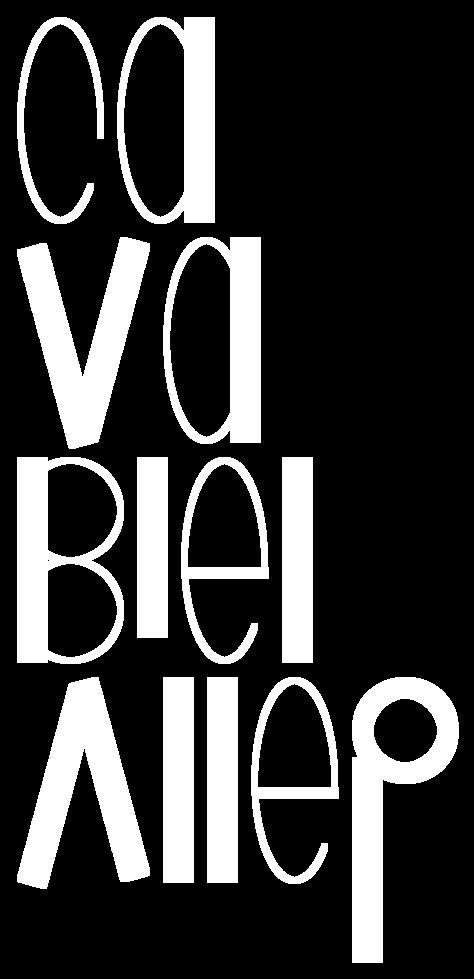
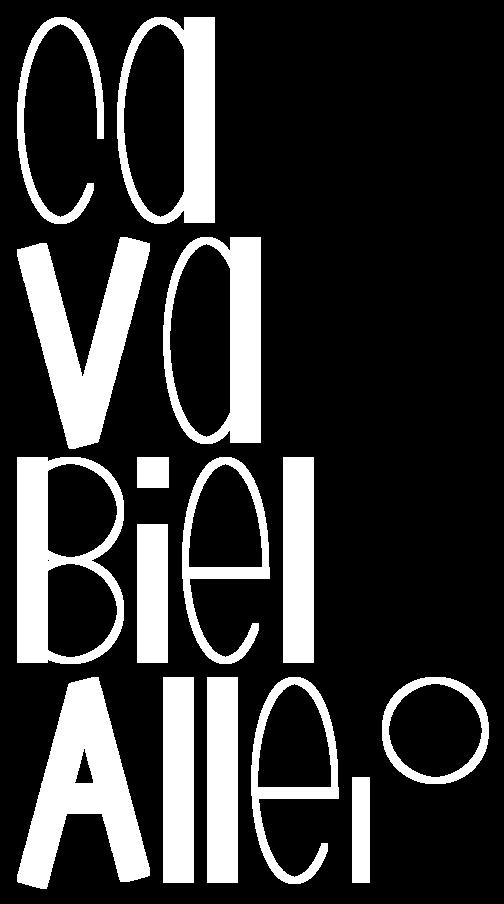
we only have 1 test to do left

Changed region(s): [[0.0295, 0.0, 0.9747, 0.9912], [0.0591, 0.031, 0.0886, 0.0619]]

diff --git a/labo1/src/tp1/LetterFactory.java b/labo1/src/tp1/LetterFactory.java
@@ -15,7 +15,6 @@ public final class LetterFactory {
         BaseShape Ellipse = new Ellipse(maxWidth, maxHeight);
         for (int i = 0; i < halfMaxWidth / 2 + 10; i++) {
             BaseShape littleCircle = new Rectangle(halfMaxWidth - i, maxHeight / 3 - i);
-
             Ellipse.remove(littleCircle);
 
         }
@@ -37,8 +36,8 @@ public final class LetterFactory {
 
     public static BaseShape create_C() {
         BaseShape Ellipse = new Ellipse(maxWidth, maxHeight);
-        for (int i = 0; i < halfMaxWidth / 2 + 10; i++) {
-            BaseShape littleCircle = new Rectangle(halfMaxWidth - i, maxHeight / 3 - i);
+        for (int i = 0; i < halfMaxWidth / 2 ; i++) {
+            BaseShape littleCircle = new Rectangle(halfMaxWidth - i, maxWidth  - i*2);
             Ellipse.remove(littleCircle);
 
         }
@@ -82,17 +81,35 @@ rect.add(rect3);
 
     // TODO
     public static BaseShape create_n() {
-        Rectangle Rect1 = new Rectangle(stripeThickness, maxHeight);
+        Rectangle Rect1 = new Rectangle(stripeThickness, maxHeight).translate( new Point2d(-maxWidth,-halfMaxHeight));
+        Ellipse ellipse = new Ellipse(maxWidth, maxHeight);
+        for (int i = 0; i < maxWidth/2 ; i++) {
+            BaseShape littleCircle = new Rectangle( maxWidth -i ,halfMaxWidth-i*2);
+            ellipse.remove(littleCircle);
+
+        }
+
+        Rect1.add(ellipse);
         return Rect1;
     }
 
     // TODO
     public static BaseShape create_r() {
 
-        Rectangle Rect1 = new Rectangle(halfStripeThickness, maxHeight/2).translate( new Point2d(-maxWidth, maxHeight/4));
-        BaseShape littleCircle = new Circle(halfMaxHeight);
-        littleCircle.remove( new Point2d(-halfMaxWidth*2, -halfMaxWidth/2));
-       Rect1.add(littleCircle);
+        Rectangle Rect1 = new Rectangle(halfStripeThickness, maxHeight/2).translate( new Point2d(-maxWidth/2, maxHeight/4));
+        BaseShape Circle = new Ellipse(halfMaxWidth, halfMaxHeight);
+        for (int i = 0; i < maxWidth ; i++) {
+            BaseShape littleCircle = new Rectangle(maxWidth - i, maxHeight  - i);
+            Circle.remove(littleCircle);
+
+        }
+        for (int i = 0; i < maxWidth ; i++) {
+            BaseShape littleCircle = new Rectangle(maxWidth + i, maxHeight  + i);
+            Circle.remove(littleCircle);
+
+        }
+        Circle.translate( new Point2d(-maxWidth/4, halfMaxHeight/4));
+       Rect1.add(Circle);
         return Rect1;
     }
 
